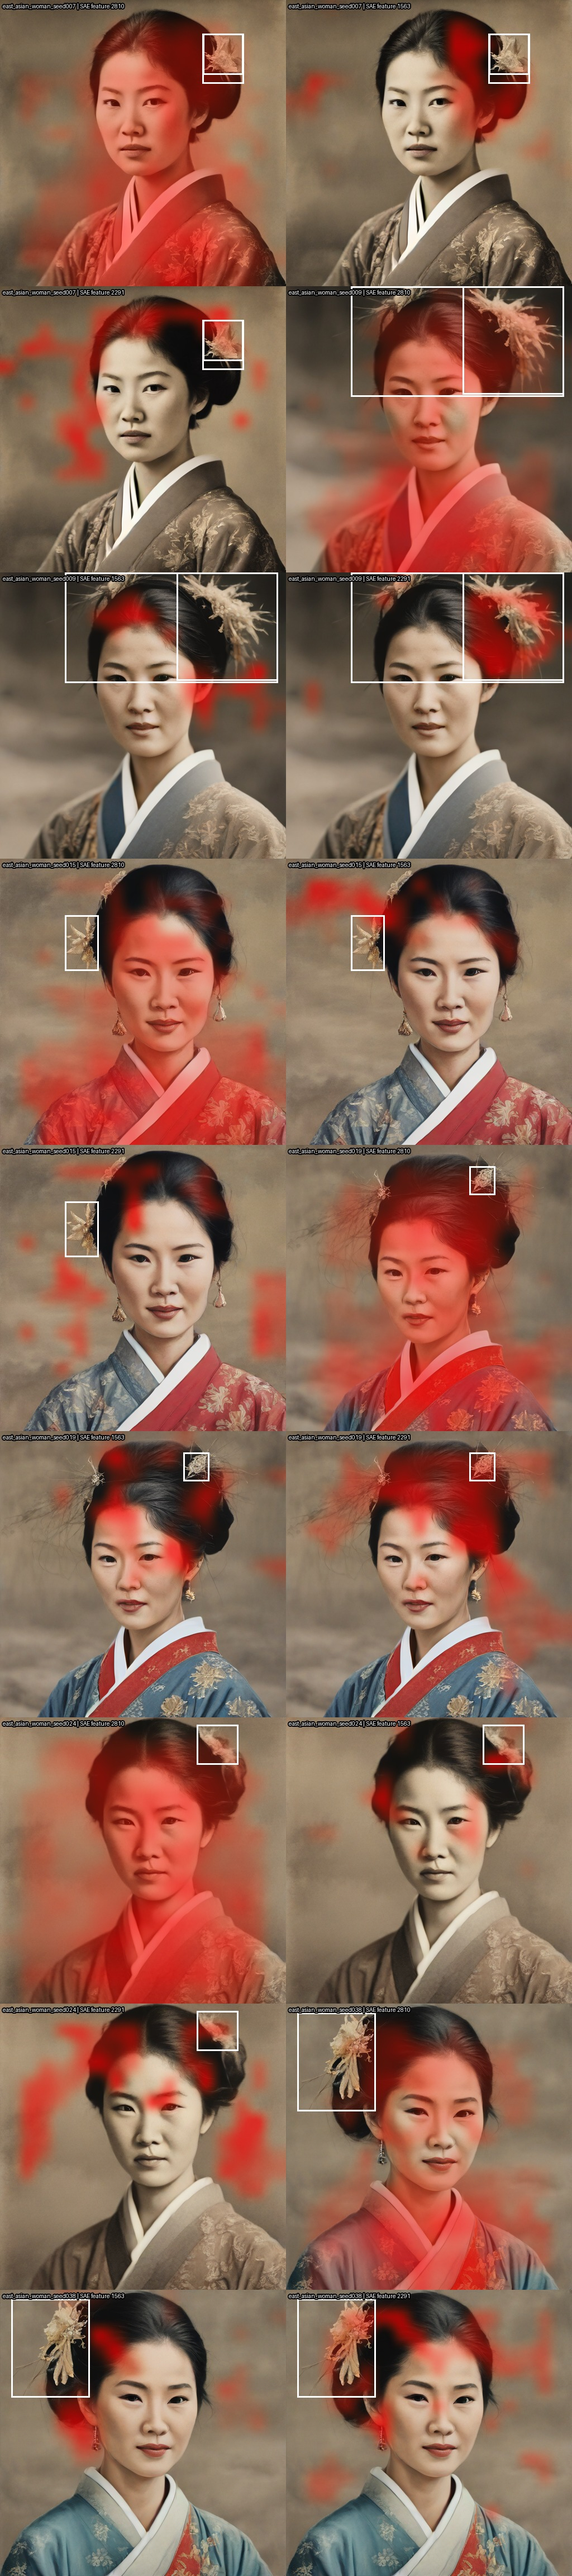
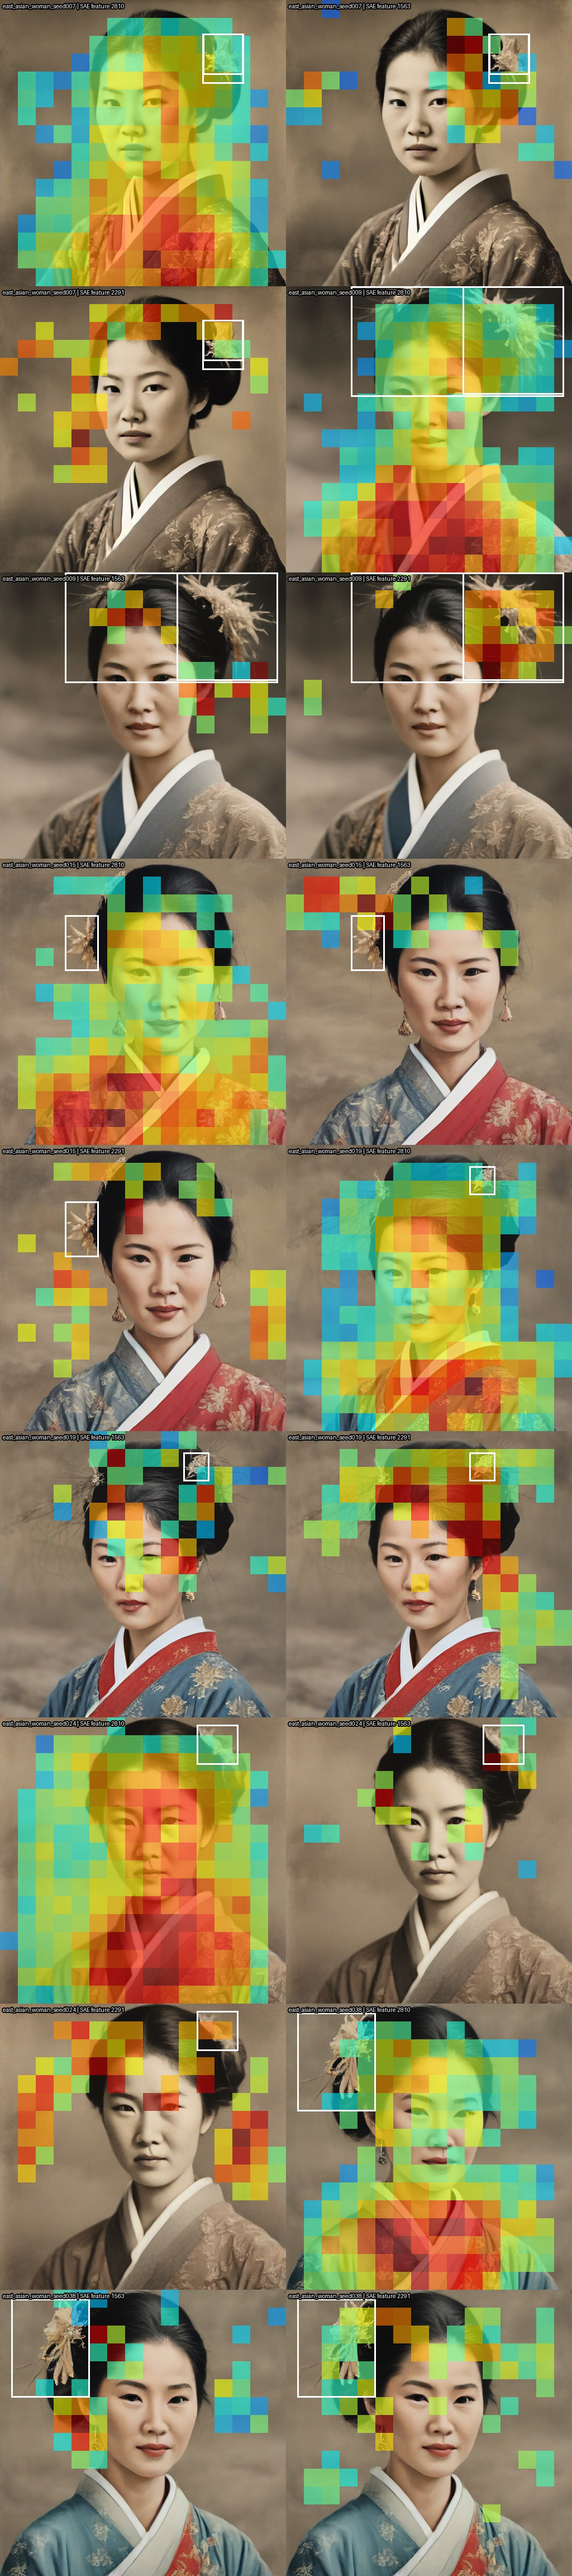
Match flower maps to color-pixel heatmap style

diff --git a/flower_sae_intervention/analyze_feature_localization.py b/flower_sae_intervention/analyze_feature_localization.py
@@ -46,7 +46,9 @@ def main():
 
     import torch
     from PIL import Image, ImageDraw
+    sys.path.insert(0, str(ROOT / "backprop"))
     sys.path.insert(0, str(ROOT / "sdxl-unbox"))
+    from heatmap_style import make_heatmap_overlay
     from SAE import SparseAutoencoder
 
     device = torch.device("cuda")
@@ -99,17 +101,7 @@ def main():
         if sid not in positive_ids or len(examples) >= 18:
             continue
         base = Image.open(path).convert("RGB").resize((512, 512))
-        positive_act = act[act > 0]
-        scale = float(np.percentile(positive_act, 99)) if positive_act.size else 1.0
-        normalized = np.clip(act / max(scale, 1e-12), 0, 1)
-        heat = Image.fromarray(np.uint8(255 * normalized)).resize((512, 512))
-        normalized = np.asarray(heat, dtype=np.float32) / 255
-        base_array = np.asarray(base, dtype=np.float32)
-        heat_array = np.zeros_like(base_array)
-        heat_array[..., 0] = 255
-        heat_array[..., 1] = 70 * (1 - normalized)
-        alpha = (normalized ** 1.5 * 0.65)[..., None]
-        composite = Image.fromarray(np.uint8(np.clip(base_array * (1 - alpha) + heat_array * alpha, 0, 255)))
+        composite = make_heatmap_overlay(base, act).convert("RGB")
         draw = ImageDraw.Draw(composite)
         for box in boxes:
             x1, y1, x2, y2 = box

diff --git a/flower_sae_intervention/README.md b/flower_sae_intervention/README.md
@@ -61,6 +61,8 @@ The gentler intervention changed both groups less, but the flower remained visib
 
 For each selected unit, we encoded held-out residuals into the 16 x 16 SAE grid and compared activations inside the C2C flower boxes with activations outside. The original selected features peaked inside the box in only 2 of 8 positive examples for feature 940, and 0 of 8 for features 2810 and 1855. Their spatial activation overlays show broad activity around the face, hair, clothing, and background.
 
+The maps use the same blocky color-pixel style as the other SAE heatmaps: nearest-neighbor 16 x 16 cells, `jet` colors, transparent zero-activation cells, and 60% opacity.
+
 ![Original selected feature activation overlays; white boxes show C2C flower regions](images/followup/initial_activation_overlays.jpg)
 
 This supports the hypothesis that the globally applied SAE features encode other image details along with flower-related information.
